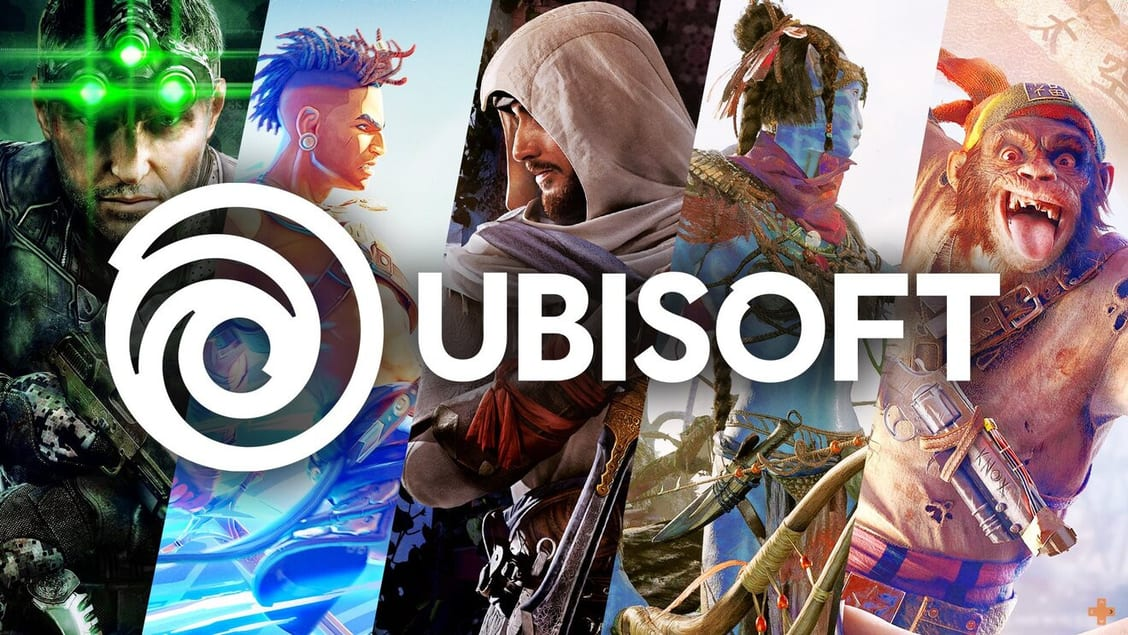
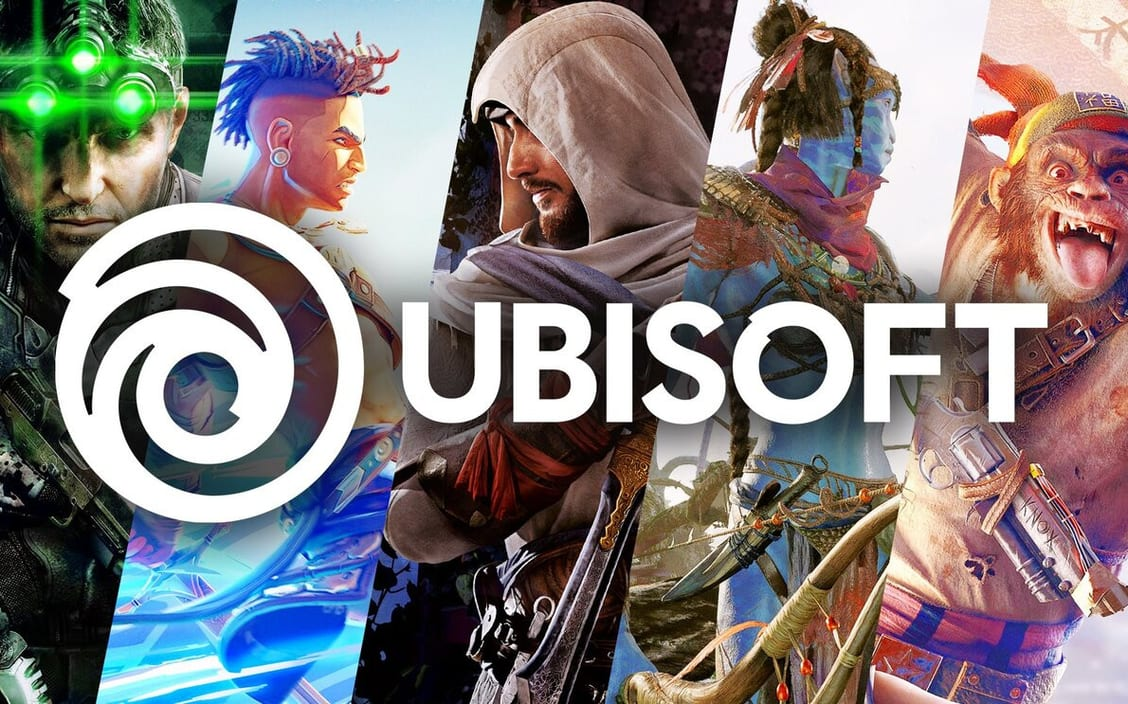
homepage: dedicated Ghost Recon thumbnail, and fix the Ubisoft card softness
The Ghost Recon stat card was loading the 1920x835 Delta case-study key art
(531KB) to fill a 564x352 slot. It needs the full width as a full-bleed band
on that case study, so it gets a dedicated 1128x704 thumbnail here instead
of a resize: 531KB -> 177KB, and the case-study band is untouched.

Also fixes a regression from dcc0f28. That commit sized hp-kpi-ubi by width
alone, but the figure is objectFit: cover on a 16/10 box, so a 16:9 source
is scaled to fill the height and cropped — only 1017px of it landed across a
1128px box (0.90x, soft). Both images are now centre-cropped to the box
aspect first, then sized, so every pixel shipped is a pixel displayed. Both
are 1.00x. hp-kpi-ubi is 11KB larger than the soft version and still 53%
under the 364KB original.

Homepage image payload: 829KB -> 475KB.

Not fixed, needs new source material: hp-kpi-azarus is 783px into a 1128px
slot (0.63x) and has been 783px in every commit it has existed in;
portraits/laura-e3.jpg is 540px into a 1006px slot. Neither can be helped by
compression — the larger originals are not in the repo or assets-source.

diff --git a/src/pages/HomePage.jsx b/src/pages/HomePage.jsx
@@ -15,7 +15,7 @@ const stats = [
   { value: '$32K', unit: 'in 3 hrs', label: 'a $129 fan drop that sold out instantly', client: 'US Mobile', img: 'case-studies/homepage/hp-kpi-us-mobile-sim.png', alt: 'US Mobile Dark Star drop' },
   { value: '60M+', unit: 'reach', label: 'across Ubisoft programs, at $0 media spend', client: 'Ubisoft', img: 'case-studies/homepage/hp-kpi-ubi.jpg', alt: 'Ubisoft creator programs' },
   { value: '+80%', unit: 'MAU', label: 'from fan-focused product launches', client: 'Azarus', img: 'case-studies/homepage/hp-kpi-azarus.jpg', alt: 'Azarus game ad platform' },
-  { value: '85%', unit: 'positive sentiment', label: 'held across a 15M-player live-service community', client: 'Ghost Recon', img: 'case-studies/ubisoft-delta/02-ghost-recon-keyart.jpg', alt: 'Ghost Recon community' },
+  { value: '85%', unit: 'positive sentiment', label: 'held across a 15M-player live-service community', client: 'Ghost Recon', img: 'case-studies/homepage/hp-kpi-ghost-recon.jpg', alt: 'Ghost Recon community' },
 ]
 
 const whyFans = [
@@ -183,10 +183,10 @@ export default function HomePage() {
             </div>
             <div data-rev style={{ display: 'flex', flexDirection: 'column', gap: 'clamp(22px,3vw,32px)' }}>
               <p style={{ fontSize: 'clamp(1.08rem,1.45vw,1.34rem)', lineHeight: 1.66, color: 'rgba(239,233,220,.82)', margin: 0 }}>
-                When people love what you make, they stick around, spend more, and bring their friends. That is <mark>word of mouth</mark>, and nothing sells harder.
+                When people love what you make, they stay, they spend more, they bring their friends, and they get you talked about. That is <mark>word of mouth and earned media</mark>, and nothing sells harder.
               </p>
               <p style={{ fontSize: 'clamp(1.08rem,1.45vw,1.34rem)', lineHeight: 1.66, color: '#EFE9DC', fontWeight: 600, margin: 0 }}>
-                It comes from your brand, your product, and your community working as one. Get that right and customers become fans. That is <mark>fan-led growth</mark>. I build it into one engine, and I show you what it’s worth.
+                It comes from your brand, your product, and your community working as one. Get that right and customers become fans. That is <mark>fan-led growth</mark>. I build it into one engine you own, and I show you what it’s worth.
               </p>
             </div>
           </div>
@@ -273,7 +273,7 @@ export default function HomePage() {
           <div data-rev style={{ marginTop: 'clamp(30px,3.6vw,48px)', display: 'flex', flexWrap: 'wrap', alignItems: 'center', gap: '14px 22px' }}>
             <span style={{ fontSize: 'clamp(1.08rem,1.5vw,1.3rem)', fontWeight: 700, color: '#EFE9DC' }}>Sound like you? That’s exactly what I build.</span>
             <Link to={CONTACT_URL} className="btnp" style={{ display: 'inline-flex', alignItems: 'center', gap: 12, background: '#C8362B', color: '#EFE9DC', fontWeight: 700, fontSize: '1.04rem', padding: '16px 30px', borderRadius: 3, border: '1px solid #C8362B', textDecoration: 'none' }}>Let’s talk <span className="ar" aria-hidden>→</span></Link>
-            <Link to="/services" className="btnsoft" style={{ display: 'inline-flex', alignItems: 'center', gap: 10, fontWeight: 700, fontSize: '1.02rem', padding: '16px 30px', borderRadius: 3, textDecoration: 'none' }}>See the ways to work <span className="ar" aria-hidden>→</span></Link>
+            <Link to="/services" className="btnsoft" style={{ display: 'inline-flex', alignItems: 'center', gap: 10, fontWeight: 700, fontSize: '1.02rem', padding: '16px 30px', borderRadius: 3, textDecoration: 'none' }}>See how we&rsquo;d work together <span className="ar" aria-hidden>→</span></Link>
           </div>
         </div>
       </section>
@@ -426,7 +426,7 @@ export default function HomePage() {
               Let’s talk <span className="ar" aria-hidden>→</span>
             </Link>
             <Link to="/services" className="btnsoftd" style={{ display: 'inline-flex', alignItems: 'center', gap: 10, fontWeight: 700, fontSize: '1.02rem', padding: '17px 32px', borderRadius: 3, textDecoration: 'none' }}>
-              See all the ways to work <span className="ar" aria-hidden>→</span>
+              See all the ways to work with me <span className="ar" aria-hidden>→</span>
             </Link>
           </div>
         </div>
